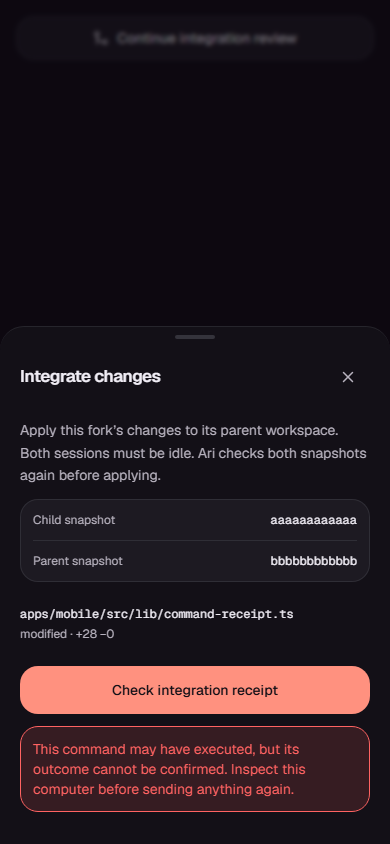
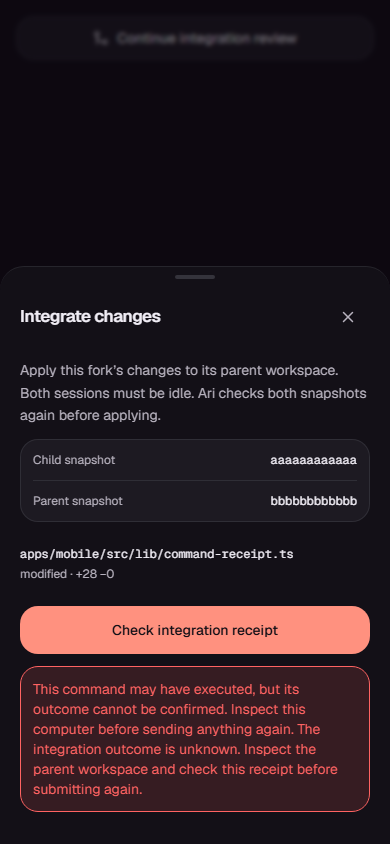
docs(mobile): record integrated receipt checks and refreshed recovery captures

diff --git a/docs/research/mobile-overhaul.md b/docs/research/mobile-overhaul.md
@@ -89,6 +89,10 @@ Visible changes, final evidence, checks and limitations will be appended here.
     upload is disabled offline and cannot dispatch after leaving the workspace.
 15. Fork provider/model selectors are constrained to their columns, preventing
     native select contents from widening and clipping the phone sheet.
+16. A failed integration keeps its exact receipt even when the host reports
+    `conflict`, because files may already have been applied before recording
+    failed. The error asks users to inspect the parent workspace and check the
+    receipt; remounting never permits automatic resubmission.
 
 ## Screenshot evidence
 
@@ -228,3 +232,19 @@ settings/Tailscale mutation, push, PR or worker delegation occurred.
 Fresh-worker commits before this evidence commit, in authoring order:
 `3dd2c461`, `17213735`, `3fa3efae`, `c03d78c6`, `80378275`, `a6a92c20`,
 `62395705`, `679e0bd3`. Starting snapshot was bd182168.
+
+## Coordinator integrated evidence, 2026-11-12
+
+The integrated mobile suite passed all 49 files / 371 tests in 95.30 seconds,
+including the newly found applied-then-conflict receipt boundary and remount/
+read-only recovery. S9's correction is `9b98cbb4`, with test formatting at
+`3f55df73`; the independent security reviewer confirmed source closure.
+
+All 24 recovery captures were refreshed against `3adf6212` (runtime source
+unchanged from `3f55df73`), using the temporary profile and exact source in
+`docs/screenshots/mobile/recovery/evidence.json`. Every capture has zero mutation
+calls, no page/sheet overflow, and uncertain views have receipt queries. The nine
+changed PNGs were visually inspected at full size: the four integration images
+show the final unknown-outcome guidance; session and terminal changes retain the
+read-only controls and readable contained layout. Fifteen other PNGs are unchanged.
+No live Ari, Tailscale, settings, devices or accounts were touched.
